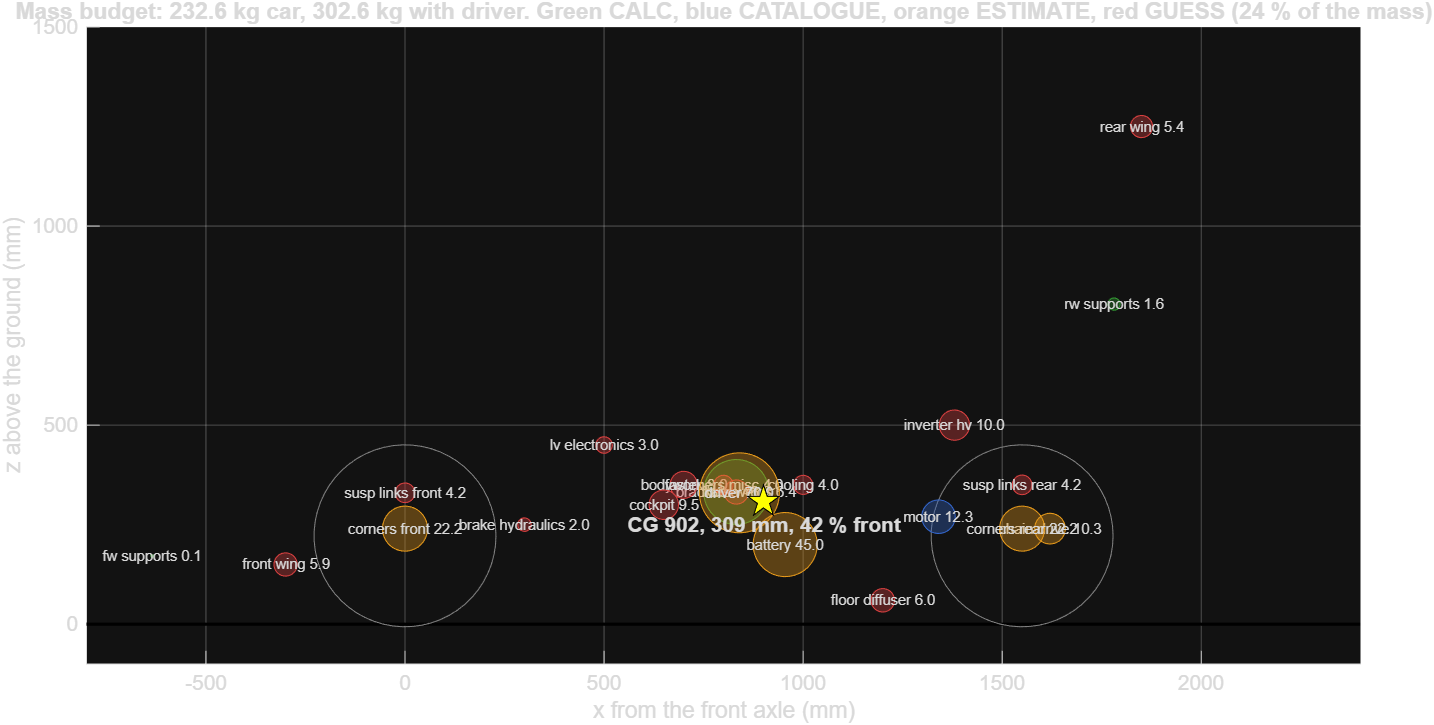
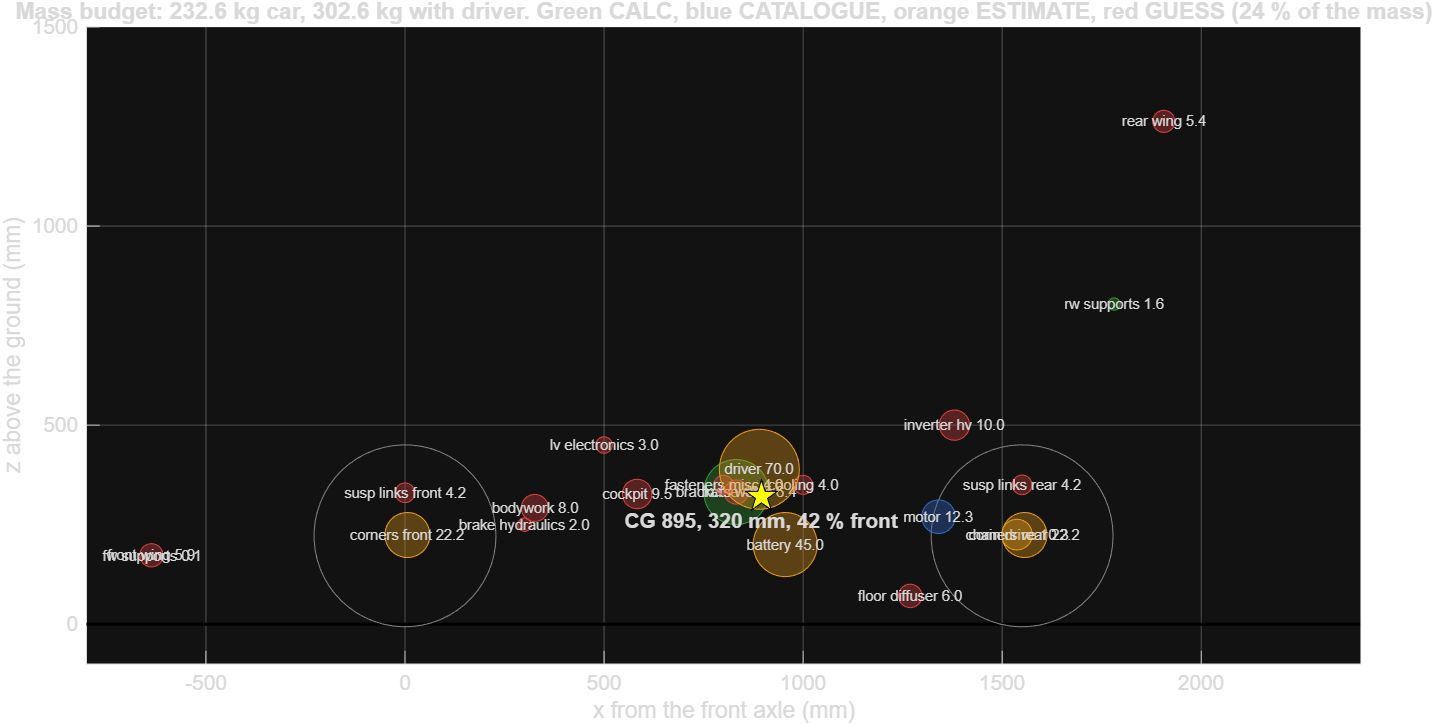
Mass budget reconciled with CAD: corrected positions, CG within 0.3 mm, concept doc updated

diff --git a/cad/generate/cad_cg.py b/cad/generate/cad_cg.py
@@ -9,13 +9,19 @@ the CAD), and it always exits 0 unless it cannot run.
 Every budget line keeps its mass (params/car_params.txt). Only its position changes, to the
 centre of the CAD bodies that stand for it:
   - packaging envelopes (envelopes_mass.csv): the envelope centroids with their masses;
-  - STEP bodies (wings, floor, nose, sidepods, tyres, rims): volume centroids, the line's mass
-    shared by volume where one line covers several bodies;
+  - STEP bodies: tyres and rims by volume centroid; wings, floor, nose and sidepods by surface
+    (area) centroid, the line's mass shared by area where one line covers several bodies:
+    they are carbon skins or sandwich panels whose mass goes with their area (the budget
+    masses are per m2), and a volume centroid over-weights the thick solid main elements
+    (2026-11-28 reconciliation: by volume the front wing sat 70 mm further forward);
+  - cockpit: seat and steering envelopes; pedal box, harness, firewall and headrest at the
+    layout positions of COCKPIT_REST (frame_layout.m driver pose, no CAD bodies);
   - suspension members: the BuildSuspension members rebuilt from the hardpoints
     (check_clearances.suspension_members), with the per-corner masses of the budget comment;
   - frame and wing supports: the line's own position is already from the CAD (CALC);
-  - what has no CAD body (brackets, harness, pedal box, cooling, hydraulics, fasteners, hub,
-    upright and bearings) stays at the budget position, and the report says so.
+  - what has no CAD body and no layout position (brackets, cooling, hydraulics, fasteners)
+    stays at the budget position, and the report says so; hub, upright and bearings sit at
+    the wheel centre.
 Only X (from the front axle) and Z (from the ground) are compared; the budget has no Y.
 """
 from __future__ import annotations
@@ -35,6 +41,19 @@ LINES = ["m_frame", "m_brackets_welds", "m_battery", "m_motor", "m_inverter_hv",
 CORNER_SPLIT = {"tyre": 4.1, "rim": 2.5, "hub": 1.0, "upright": 1.2, "brake": 1.8, "bearings": 0.5}
 # per-corner split written in the m_susp_links_* comment (kg); rocker and damper are envelopes
 LINK_SPLIT = {"wishbones": 0.8, "pushrod": 0.2, "rocker": 0.3, "damper": 0.6, "tie": 0.2}
+# m_cockpit parts with no CAD body (kg, from the m_cockpit comment), placed in the frame_layout.m
+# driver pose: all GUESS positions, written in the x_cockpit comment as well
+COCKPIT_REST_KG = {"pedal box": 2.5, "harness": 1.5, "firewall and headrest": 1.5}
+
+
+def cockpit_rest(p):
+    """(mass, x, z, name) of the m_cockpit parts that have no CAD body."""
+    from envelopes import driver_geometry
+    g = driver_geometry(p)
+    hip, sh = g["hip"], g["shoulder"]
+    return [(COCKPIT_REST_KG["pedal box"], 150.0, 250.0, "pedal box ahead of the legs box (x 200), pedals and master cylinders"),
+            (COCKPIT_REST_KG["harness"], (hip[0] + sh[0]) / 2, (hip[1] + sh[1]) / 2, "harness at the hip-shoulder midpoint"),
+            (COCKPIT_REST_KG["firewall and headrest"], p["main_hoop_x"] + 20.0, 500.0, "firewall and headrest in the main hoop plane behind the seat back")]
 
 
 def pos_of(p, line):
@@ -66,10 +85,21 @@ def cad_positions(p, step_dir: Path, gen_dir: Path):
             cen[name] = (s.volume, c.X, c.Z)
         return cen[name]
 
-    def by_volume(mass, names):
-        vols = [step_c(n) for n in names]
-        V = sum(v[0] for v in vols)
-        return [(mass * v[0] / V, v[1], v[2]) for v in vols]
+    def step_a(name):
+        """surface area and area centroid (X, Z) of a STEP body."""
+        key = name + "#area"
+        if key not in cen:
+            from build123d import CenterOf
+            s = import_step(str(step_dir / f"{name}.step"))
+            fs = [(fc.area, fc.center(CenterOf.MASS)) for fc in s.faces()]
+            A = sum(a for a, _ in fs)
+            cen[key] = (A, sum(a * c.X for a, c in fs) / A, sum(a * c.Z for a, c in fs) / A)
+        return cen[key]
+
+    def by_area(mass, names):
+        ars = [step_a(n) for n in names]
+        A = sum(a[0] for a in ars)
+        return [(mass * a[0] / A, a[1], a[2]) for a in ars]
 
     out = {}
     for line in LINES:
@@ -102,17 +132,18 @@ def cad_positions(p, step_dir: Path, gen_dir: Path):
             src = "wishbones, pushrods, tie rods from the hardpoints; rocker and damper envelopes"
         elif line in ("m_front_wing", "m_rear_wing"):
             pre = "fw" if line == "m_front_wing" else "rw"
-            items = by_volume(m, [f"{pre}_main", f"{pre}_flap1", f"{pre}_flap2", f"{pre}_endplate_R", f"{pre}_endplate_L"])
-            src = "STEP elements and endplates, by volume"
+            items = by_area(m, [f"{pre}_main", f"{pre}_flap1", f"{pre}_flap2", f"{pre}_endplate_R", f"{pre}_endplate_L"])
+            src = "STEP elements and endplates, by area"
         elif line == "m_floor_diffuser":
-            items, src = by_volume(m, ["floor_diffuser"]), "STEP"
+            items, src = by_area(m, ["floor_diffuser"]), "STEP, by area"
         elif line == "m_bodywork":
-            items, src = by_volume(m, ["nose", "sidepod_R", "sidepod_L"]), "STEP nose and sidepods, by volume (cockpit surround and fasteners not modelled)"
+            items, src = by_area(m, ["nose", "sidepod_R", "sidepod_L"]), "STEP nose and sidepods, by area (cockpit surround and fasteners not modelled)"
         elif line == "m_cockpit":
             items = [(e[0], e[1], e[2]) for e in env[line]]
-            rest = m - sum(i[0] for i in items)
-            items.append((rest, xb, zb))
-            src = "envelopes seat and steering (%.1f kg); harness, pedal box, firewall, headrest (%.1f kg) at the budget position" % (m - rest, rest)
+            rest = cockpit_rest(p)
+            items += [(r[0], r[1], r[2]) for r in rest]
+            src = "envelopes seat and steering (%.1f kg); pedal box, harness, firewall, headrest (%.1f kg) at the frame_layout positions" % (
+                sum(e[0] for e in env[line]), sum(r[0] for r in rest))
         else:
             items, src = [(m, xb, zb)], "not in the CAD: budget position"
         mm = sum(i[0] for i in items)
@@ -165,8 +196,22 @@ def selftest():
     ok = (m, round(x, 9), round(z, 9)) == (4, 75.0, 30.0)
     # the comment splits add up to the lines: corners 11.1 per corner, links 2.1 per corner
     ok = ok and abs(sum(CORNER_SPLIT.values()) - 11.1) < 1e-9 and abs(sum(LINK_SPLIT.values()) - 2.1) < 1e-9
-    print("cad_cg self-test: %s (4 kg at (%.1f, %.1f), hand (75, 30); corner %.1f kg, link %.1f kg per corner)"
-          % ("PASS" if ok else "FAIL", x, z, sum(CORNER_SPLIT.values()), sum(LINK_SPLIT.values())))
+    # cockpit parts with no CAD body: 2.5 + 1.5 + 1.5 = 5.5 kg (9.5 minus seat 1.0 and steering 3.0); with hip (850, 180),
+    # seat back 40 deg and main hoop 1250 the harness sits at (850 + 280 sin 40, 180 + 280 cos 40) = (1030.0, 394.5)
+    # and the firewall at (1270, 500)
+    rest = cockpit_rest({"seat_back_angle": 40.0, "driver_hip_x": 850.0, "driver_hip_z": 180.0, "main_hoop_x": 1250.0})
+    ok = ok and abs(sum(r[0] for r in rest) - 5.5) < 1e-9 and (round(rest[1][1], 1), round(rest[1][2], 1)) == (1030.0, 394.5)         and (rest[2][1], rest[2][2]) == (1270.0, 500.0)
+    # area centroid by hand: an axis-aligned box 100 x 10 x 10 at x 0..100 has faces of area 1000 (4, centres at x 50),
+    # 100 (end at x 0) and 100 (end at x 100): area centroid x = 50, the same as its volume centroid
+    from build123d import Box, CenterOf, Pos
+    b = Pos(50, 0, 0) * Box(100, 10, 10)
+    fs = [(fc.area, fc.center(CenterOf.MASS).X) for fc in b.faces()]
+    ax = sum(a * c for a, c in fs) / sum(a for a, _ in fs)
+    ok = ok and abs(sum(a for a, _ in fs) - 4200) < 1e-6 and abs(ax - 50) < 1e-9
+    print("cad_cg self-test: %s (4 kg at (%.1f, %.1f), hand (75, 30); corner %.1f kg, link %.1f kg per corner; cockpit rest %.1f kg, "
+          "harness (%.1f, %.1f), hand (1030.0, 394.5); box area %.0f mm2, hand 4200, area centroid x %.1f, hand 50)"
+          % ("PASS" if ok else "FAIL", x, z, sum(CORNER_SPLIT.values()), sum(LINK_SPLIT.values()), sum(r[0] for r in rest),
+             rest[1][1], rest[1][2], sum(a for a, _ in fs), ax))
     return 0 if ok else 1
 
 

diff --git a/docs/log.md b/docs/log.md
@@ -3,6 +3,23 @@
 One entry per session. Newest at the bottom. Each entry: date, ring, what was done, what was checked, next step.
 
 
+## Summary, 2026-11-28 (CAD session 3): mass budget positions reconciled with the CAD
+
+**Status: finished, no commits.** cfd/* not touched. The packaging clashes were not fixed and did not change (22 static). No CAD file changed, so the CAD was not rebuilt.
+
+How I read the brief: where the CAD models a budget line, the budget position becomes the mass-weighted position of that line's parts at their CAD bodies. Each change has its reason in the line's comment.
+
+- **Budget CG, with driver:** 901.5 / 308.9 mm (41.84 % front) before, 894.9 / 319.9 mm (42.26 %) now. CAD CG 895.1 / 319.6 mm.
+- **Budget CG, without driver:** 920.0 / 302.6 mm before, 896.4 / 299.1 mm now. CAD CG 896.7 / 298.8 mm.
+- **Remaining difference:** 0.3 mm or less, from the suspension links (not changed) and rounding.
+- **Lines changed** (`params/car_params.txt`):
+  - front wing, rear wing, floor, bodywork: set to the area centroids of the CAD bodies;
+  - driver: set to the `frame_layout.m` pose (890, 389);
+  - chain drive: 1537 / 225, because the comment's sprocket at X 1850 was wrong and `motor_x` 1340 is right;
+  - corners: 6 / 224 and 1556 / 224;
+  - cockpit: 583 / 327.
+- **Not re-run:** the lap sim and load cases at the new CG.
+
 ## Summary, 2026-11-28 (CAD session 2): packaging envelopes, packaging clashes, CAD CG, wing mass double count
 
 **Status: finished, no commits.** cfd/* not touched; lap sim and load cases not re-run (they wait for the CFD numbers).
@@ -1792,3 +1809,65 @@ Also wanted: common colour scales; MP4 and GIF films (orbit, wake sweep, build-u
 - the lap sim and load cases at the new CG (not re-run, by instruction).
 
 The SolidWorks assembly mass (323.3 kg) is not the car's: the non-envelope bodies are at SolidWorks' default density.
+
+
+## 2026-11-28, CAD session 3: mass budget positions reconciled with the CAD (detail)
+
+**Method.**
+- `cad/generate/cad_cg.py` puts every budget mass at the CAD bodies that stand for it.
+- It now uses surface (area) centroids for the wings, floor, nose and sidepods. These parts are carbon skins or sandwich panels, and the budget masses are per m². A volume centroid over-weights the solid main elements: by volume the front wing sat 70 mm further forward (−706 against −637).
+- Tyres and rims still use volume centroids.
+- The cockpit parts with no CAD body (5.5 kg) were at the budget position, so they could never match. They now have GUESS layout positions (`COCKPIT_REST`):
+  - pedal box 2.5 kg at (150, 250), ahead of the legs box;
+  - harness 1.5 kg at the hip–shoulder midpoint (1030, 395);
+  - firewall and headrest 1.5 kg at (1270, 500), in the main hoop plane.
+- New self-test checks by hand: the cockpit rest is 5.5 kg, the harness point is (1030.0, 394.5), and a 100 × 10 × 10 box has area 4200 mm² with its area centroid at x 50.
+
+**Lines changed** (old → new x / z, mm):
+
+| Line | Old | New | Reason |
+|---|---|---|---|
+| front wing | −300 / 150 | −637 / 173 | The CAD wing spans x −1060 to −210 (main LE about −960). The old value assumed a chord stack from −600 to 0. |
+| bodywork | 700 / 350 | 326 / 292 | Area centroid of the nose (5.79 kg by area) and the two sidepods. 700 had no CAD source. The cockpit surround is not modelled. |
+| rear wing | 1850 / 1250 | 1906 / 1263 | CAD area centroid. The CAD is trusted for the wings. |
+| floor and diffuser | 1200 / 60 | 1269 / 71 | CAD area centroid. |
+| driver | 840 / 330 | 890 / 389 | See below. |
+| chain drive | 1620 / 240 | 1537 / 225 | See below. |
+| corners front / rear | 0 / 240, 1550 / 240 | 6 / 224, 1556 / 224 | Tyre, rim, hub, upright and bearings are on the wheel centre (z 222, tyre centroid 226.9). The brake envelope (1.8 kg) is centred 39.5 mm behind the axle. 240 had no reason. |
+| cockpit | 650 / 300 | 583 / 327 | Mass-weighted: seat, rack, column and wheel from the CAD envelopes (the rack is at x −70), plus the layout positions above. |
+
+**Driver.**
+- I used the `frame_layout.m` pose, because the frame check uses it:
+  - hip at (850, 180), seat back at 40°;
+  - shoulder 560 mm up the back, helmet centre 200 mm further, at (1339, 762);
+  - envelopes: legs 21 kg at (495, 290), torso 43 kg at (1020, 385), head 6 kg at (1339, 762).
+- The old 840 / 330 came from a stick figure that is not this pose.
+- The FS Rules 2026 T4.3 template (circles of 200 mm, joined by 490 mm, and 300 mm, joined by 280 mm) is shorter from hip to shoulder (490 against 560 mm). The frame was not checked against the template, so I did not use it.
+- Cross-check, not adopted: a segment model (Winter fractions) in the same pose gives (906, 425). That is 16 mm further back and 36 mm higher than the uniform boxes, and would move the car CG by about +4 / +8 mm. In the template pose the same model gives (891, 410).
+- The seat back at 40° is "reclined" under T5.1.4.
+
+**Chain drive.**
+- `motor_x` 1340 is right. Three things agree with it:
+  - `motor_z` 270: centre distance sqrt(210² + 48²) = 215 mm, as its comment says;
+  - the `frame_layout.m` motor envelope;
+  - the frame check.
+- The `x_chain_drive` comment's "motor sprocket (1850)" came from an old layout with the motor behind the axle. The line is now mass-weighted: the diff (6.0 kg) and halfshafts (2.0 kg) on the axle (1550, 222), and the chain and sprockets (2.3 kg) at the chain envelope centroid (1490, 236).
+- The chain clash with the rear cross tubes did not come from this error. The chain envelope was always built from `motor_x` 1340; the wrong comment only moved the budget CG (about −3.7 mm in x, without driver).
+
+**Checks after the change.**
+- `cad_cg_report.txt` re-run: every changed line has dx = dz = 0. The suspension links remain at −6 / −4 (front) and +18 / −8 (rear); they were not changed and add 0.2 mm.
+- `mass_budget`, `media/mass_budget.md/.png` and `media/mass_table.md` regenerated.
+- `run_all('test')`: 28 / 28 passed.
+- `check_clearances.py` re-run: `packaging_report.txt` and the clearance results are unchanged (22 static clashes).
+
+**Docs.**
+- `docs/concept.md`: mass 232.6 / 70 kg, 42.3 % front, CG height 320 / 299 mm.
+- `README.md`: the mass row and the Mass and CG bullet.
+- `docs/buildup_audit.md`: a "reconciled later" note under the CG table. The table itself stays as the before state.
+
+**Not checked:**
+- the masses themselves (unchanged; 24 % GUESS);
+- the cockpit layout positions, which are guesses;
+- the T4.3.1 helmet clearance lines;
+- the frame against the FS template;
+- the lap sim and load cases at the new CG (42.3 % front, 320 mm): these results are now stale.

diff --git a/README.md b/README.md
@@ -57,7 +57,7 @@ All numbers come from the scripts named in the table, as of 2026-11-25. None of 
 
 | Quantity | Value | Source |
 |---|---|---|
-| Mass, car without / with driver | 232.6 / 302.6 kg, 41.8 % front, CG 902 mm behind the front axle, 309 mm high (2026-11-28: the four wing supports, 1.73 kg, have their own lines and are taken off the wing guesses, so the total is the v1.0.0 total; the CG height moved from 311 to 309 mm. The lap times and loads in this README were computed with the v1.0.0 CG and not re-run) | `matlab/mass_budget.m`, `media/mass_table.md` |
+| Mass, car without / with driver | 232.6 / 302.6 kg, 42.3 % front, CG 895 mm behind the front axle, 320 mm high (2026-11-28, reconciliation: the budget positions of the wings, floor, bodywork, cockpit, corners, chain drive and driver now come from the CAD, and the budget CG agrees with the CAD CG within 0.3 mm; before it, 902 / 309 mm. Also 2026-11-28: the four wing supports, 1.73 kg, have their own lines and are taken off the wing guesses, so the total is the v1.0.0 total; the CG height moved from 311 to 309 mm. The lap times and loads in this README were computed with the v1.0.0 CG and not re-run) | `matlab/mass_budget.m`, `media/mass_table.md` |
 | Frame | 123 tubes of 25.4 mm OD (material: see below), 46.26 kg as the trimmed SOLIDWORKS weldment (48.7 kg on centre-line lengths, which count each coped end twice); no welds or brackets (6.4 kg allowance on its own line) | `params/car_params.txt`, `cad/chassis/check_chassis_report.txt` (measured), `matlab/cad/frame_trimmed_mass.m` (CG) |
 | Frame torsional stiffness | 1476 Nm/deg, 1.6 % under the 1500 target (834 without the 9 diagonal tubes; 1503 with a tenth, RT1-RRK, removed on 2026-11-25 because it met its cross tubes at 5.4 deg); a fused solid model in SOLIDWORKS Simulation gives 1470 (same load case, 2.9 M-node mesh) | `matlab/stress/frame_fe.m` (beam model), `tools/sw_harness/FrameAnalysis.cs` (solid cross-check) |
 | Frame, lowest factor of safety on yield | 2.62, bump case (3 g total wheel load), nominal beam stress, against 4130's yield (435 MPa): it assumes 4130 tube | `matlab/stress/frame_fe.m`, `docs/stress_frame.md` |
@@ -237,7 +237,7 @@ These are the things the numbers above depend on that were not measured, or were
   - **Torsional stiffness is confirmed by a solid model.** A separate analysis-only solid frame (`cad/analysis/frame_analysis.SLDPRT`, built from the same tube data, tube ends overlapping their neighbours by 1 mm and fused into one body) gives 1470 Nm/deg against the beam model's 1476 in the headline case, and 1350 against 1365 with couples at the nodes (123 tubes, 2026-11-25). The mesh study was done on the 2026-11-18 frame (124 tubes, with RT1-RRK): going from a 5 mm to a 4 mm mesh changed the result by 0.3 % or less, and a 3 mm mesh failed to mesh on the Student licence. The 123-tube frame was solved at 4 mm only (see `docs/log.md` and `docs/stress_frame.md`).
   - **Stresses are not confirmed.** The solid model's peaks sit where the point loads enter and are not used. The frame stresses and factors of safety are the beam model's nominal values.
   - **What neither model includes:** both assume perfectly fused joints, with no welds as built, no brackets and no fabrication tolerances. The real frame will be softer than both by an amount neither can predict. Only a physical torsion test would settle it.
-- **Mass and CG.** 24 % of the mass is a placeholder (flag GUESS in `media/mass_table.md`), including the inverter, the wings and the bodywork. The 6.4 kg for brackets and welds is a guess (about 13 % of the centre-line frame) and is not drawn. The CG height is therefore partly a guess too. Placing each budget mass at its CAD body or envelope instead of its budget position gives a CG of 891 mm / 317 mm (with driver; 42.5 % front) against the budget's 902 / 309 (`cad/generate/cad_cg_report.txt`). The budget was not changed to match. The largest moves are the driver (+50 mm back, +59 mm up), the front wing and the bodywork (the CAD's are about 400 mm further forward than their budget positions).
+- **Mass and CG.** 24 % of the mass is a placeholder (flag GUESS in `media/mass_table.md`), including the inverter, the wings and the bodywork. The 6.4 kg for brackets and welds is a guess (about 13 % of the centre-line frame) and is not drawn. The CG height is therefore partly a guess too. Placing each budget mass at its CAD body or envelope gives a CG of 895.1 mm / 319.6 mm (with driver; 42.25 % front); the budget gives 894.9 / 319.9 (`cad/generate/cad_cg_report.txt`). On 2026-11-28 the budget positions that were wrong (front wing and bodywork about 400 mm too far back, driver 50 mm forward and 59 mm low, chain drive, corners, cockpit, rear wing, floor) were set from the CAD; before that the budget said 902 / 309. The driver is the `frame_layout.m` pose with uniform-density boxes: a segment model of the same pose puts the driver 16 mm further back and 36 mm higher, which would move the car's CG about +4 mm in x and +8 mm in z.
 - **Lap simulation.**
   - Quasi-steady, perfect driver, no transients.
   - The point-mass model has no load transfer. The four-wheel model adds steady load transfer at the corner limit only.

diff --git a/media/mass_table.md b/media/mass_table.md
@@ -1,25 +1,25 @@
 # Mass budget
 
-Generated by `matlab/make_media.m` on 2026-11-28 17:50 from `params/car_params.txt` (via `matlab/mass_budget.m`).
+Generated by `matlab/make_media.m` on 2026-11-28 19:05 from `params/car_params.txt` (via `matlab/mass_budget.m`).
 
 Flags: CALC = computed from the CAD or frame files, CATALOGUE = a datasheet, ESTIMATE = a reasoned number, GUESS = a placeholder.
 
 | Item | Mass (kg) | x (mm) | z (mm) | Flag |
 |---|---|---|---|---|
-| driver | 70.0 | 840 | 330 | ESTIMATE |
+| driver | 70.0 | 890 | 389 | ESTIMATE |
 | frame | 46.3 | 832 | 332 | CALC |
 | battery | 45.0 | 955 | 200 | ESTIMATE |
-| corners_front | 22.2 | 0 | 240 | ESTIMATE |
-| corners_rear | 22.2 | 1550 | 240 | ESTIMATE |
+| corners_front | 22.2 | 6 | 224 | ESTIMATE |
+| corners_rear | 22.2 | 1556 | 224 | ESTIMATE |
 | motor | 12.3 | 1340 | 270 | CATALOGUE |
-| chain_drive | 10.3 | 1620 | 240 | ESTIMATE |
+| chain_drive | 10.3 | 1537 | 225 | ESTIMATE |
 | inverter_hv | 10.0 | 1380 | 500 | GUESS |
-| cockpit | 9.5 | 650 | 300 | GUESS |
-| bodywork | 8.0 | 700 | 350 | GUESS |
+| cockpit | 9.5 | 583 | 327 | GUESS |
+| bodywork | 8.0 | 326 | 292 | GUESS |
 | brackets_welds | 6.4 | 832 | 332 | GUESS |
-| floor_diffuser | 6.0 | 1200 | 60 | GUESS |
-| front_wing | 5.9 | -300 | 150 | GUESS |
-| rear_wing | 5.4 | 1850 | 1250 | GUESS |
+| floor_diffuser | 6.0 | 1269 | 71 | GUESS |
+| front_wing | 5.9 | -637 | 173 | GUESS |
+| rear_wing | 5.4 | 1906 | 1263 | GUESS |
 | susp_links_front | 4.2 | 0 | 330 | GUESS |
 | susp_links_rear | 4.2 | 1550 | 350 | GUESS |
 | cooling | 4.0 | 1000 | 350 | GUESS |
@@ -29,9 +29,9 @@ Flags: CALC = computed from the CAD or frame files, CATALOGUE = a datasheet, EST
 | rw_supports | 1.6 | 1781 | 804 | CALC |
 | fw_supports | 0.1 | -635 | 171 | CALC |
 | **Car without driver** | **232.6** | | | |
-| **With driver** | **302.6** | 902 | 309 | |
+| **With driver** | **302.6** | 895 | 320 | |
 
-CG 902 mm behind the front axle (41.8 % front), 309 mm above the ground. 24 % of the mass is a GUESS, so the CG height is partly a guess too.
+CG 895 mm behind the front axle (42.3 % front), 320 mm above the ground. 24 % of the mass is a GUESS, so the CG height is partly a guess too.
 
 Wing lines: front_wing 5.913 + fw_supports 0.087 = 6.000 kg; rear_wing 5.357 + rw_supports 1.643 = 7.000 kg (the wing guesses included mounts and pylons; the supports are CALC from the CAD and are taken off them).
 

diff --git a/media/mass_budget.md b/media/mass_budget.md
@@ -4,20 +4,20 @@ Generated by `matlab/mass_budget.m` from `params/car_params.txt`. Flags: CALC co
 
 | Item | Mass (kg) | x (mm) | z (mm) | Flag |
 |---|---|---|---|---|
-| driver | 70.0 | 840 | 330 | ESTIMATE |
+| driver | 70.0 | 890 | 389 | ESTIMATE |
 | frame | 46.3 | 832 | 332 | CALC |
 | battery | 45.0 | 955 | 200 | ESTIMATE |
-| corners_front | 22.2 | 0 | 240 | ESTIMATE |
-| corners_rear | 22.2 | 1550 | 240 | ESTIMATE |
+| corners_front | 22.2 | 6 | 224 | ESTIMATE |
+| corners_rear | 22.2 | 1556 | 224 | ESTIMATE |
 | motor | 12.3 | 1340 | 270 | CATALOGUE |
-| chain_drive | 10.3 | 1620 | 240 | ESTIMATE |
+| chain_drive | 10.3 | 1537 | 225 | ESTIMATE |
 | inverter_hv | 10.0 | 1380 | 500 | GUESS |
-| cockpit | 9.5 | 650 | 300 | GUESS |
-| bodywork | 8.0 | 700 | 350 | GUESS |
+| cockpit | 9.5 | 583 | 327 | GUESS |
+| bodywork | 8.0 | 326 | 292 | GUESS |
 | brackets_welds | 6.4 | 832 | 332 | GUESS |
-| floor_diffuser | 6.0 | 1200 | 60 | GUESS |
-| front_wing | 5.9 | -300 | 150 | GUESS |
-| rear_wing | 5.4 | 1850 | 1250 | GUESS |
+| floor_diffuser | 6.0 | 1269 | 71 | GUESS |
+| front_wing | 5.9 | -637 | 173 | GUESS |
+| rear_wing | 5.4 | 1906 | 1263 | GUESS |
 | susp_links_front | 4.2 | 0 | 330 | GUESS |
 | susp_links_rear | 4.2 | 1550 | 350 | GUESS |
 | cooling | 4.0 | 1000 | 350 | GUESS |
@@ -31,9 +31,9 @@ Generated by `matlab/mass_budget.m` from `params/car_params.txt`. Flags: CALC co
 |---|---|
 | Car without driver | 232.6 kg |
 | Car with driver | 302.6 kg |
-| CG x from the front axle | 902 mm |
-| Front weight fraction | 41.8 % |
-| CG height | 309 mm |
+| CG x from the front axle | 895 mm |
+| Front weight fraction | 42.3 % |
+| CG height | 320 mm |
 | CALC | 48.0 kg |
 | CATALOGUE | 12.3 kg |
 | ESTIMATE | 169.7 kg |

diff --git a/docs/concept.md b/docs/concept.md
@@ -20,9 +20,9 @@ Status: draft written before Ring 1. The layout sketch and the rules check again
 | Wheelbase | 1550 mm |
 | Track front / rear | 1200 / 1150 mm |
 | Wheels | 10 inch rims, 457 mm tyre OD, 222 mm rolling radius |
-| Mass car / driver | 229 / 70 kg (rolled up from the mass budget in the parameter file; a quarter of it is still a guess) |
-| Weight distribution | 41 % front (computed from the budget with the battery in two sidepod packs and the motor in the bay behind the main hoop; the earlier single block behind the hoop with the motor behind the axle gave 35 %) |
-| CG height | 314 mm (computed from the budget) |
+| Mass car / driver | 232.6 / 70 kg (rolled up from the mass budget in the parameter file; a quarter of it is still a guess) |
+| Weight distribution | 42.3 % front with driver (computed from the budget, its positions reconciled with the CAD on 2026-11-28, with the battery in two sidepod packs and the motor in the bay behind the main hoop; the earlier single block behind the hoop with the motor behind the axle gave 35 %) |
+| CG height | 320 mm with driver, 299 mm without (computed from the budget; the CAD bodies give the same within 0.3 mm) |
 | Motor | 80 kW, 230 Nm, 6500 rpm |
 | Tyre | mu 1.4 at 750 N per tyre, falling as (750/Fz)^0.10 |
 | Aero estimates ClA / CdA (m2) | A 0.2 / 0.7, B 2.8 / 1.1, C 4.0 / 1.45, D 3.8 / 1.5, 45 % front |

diff --git a/docs/buildup_audit.md b/docs/buildup_audit.md
@@ -171,6 +171,8 @@ Largest differences between a budget line's position and its CAD bodies:
 
 Which one is right is not settled here. The CAD positions are better for the bodies that exist, but the envelope masses are spread uniformly, and the driver's mass is certainly not uniform.
 
+**Reconciled later on 2026-11-28.** The budget positions were corrected from the CAD (reasons in each line's comment in `params/car_params.txt`, detail in `docs/log.md`). `cad_cg.py` now places the wings, floor, nose and sidepods at their surface (area) centroids, because they are skins whose mass goes with area; the cockpit parts with no CAD body (pedal box, harness, firewall and headrest) are placed at layout positions. After that the budget and the CAD agree: with driver 894.9 / 319.9 against 895.1 / 319.6 mm; without driver 896.4 / 299.1 against 896.7 / 298.8 mm. The table above is the state before the reconciliation.
+
 **Not checked:**
 - the envelopes' own masses (they are the budget's, several of them GUESS);
 - moving envelopes (brakes, halfshafts, rockers) over suspension travel, except as listed in #23 to #30;
